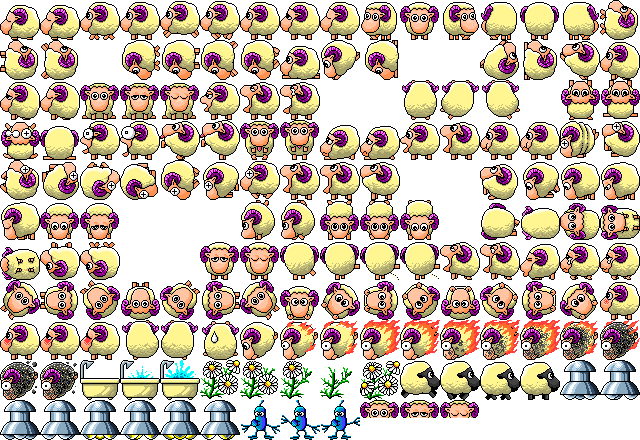
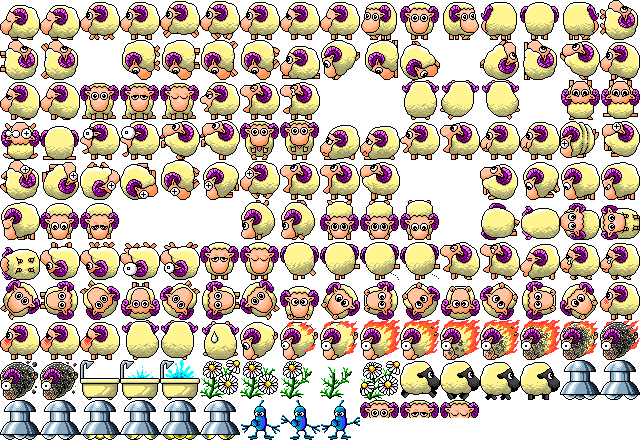
new: RunUpsideDown misc: improve ReachSide2 transition

Changed region(s): [[0.1875, 0.5318, 0.3125, 0.65], [0.625, 0.0886, 0.6875, 0.1773]]

diff --git a/skel/img/tiles.html b/skel/img/tiles.html
@@ -74,7 +74,6 @@
 	<script>
 		const unused = [
 			18,
-			26,
 			27,
 			40,
 			41,
@@ -85,8 +84,6 @@
 			84,
 			85,
 			91,
-			99,
-			100,
 			172,
 		];
 		const sprite = document.getElementById('sprite');

diff --git a/src/animation/mod.rs b/src/animation/mod.rs
@@ -15,7 +15,7 @@ use scene::SceneListKind;
 
 
 #[cfg(any(test, feature = "director"))] const MIN_ANIMATION_ID: u8 = 1;  // The lowest Animation ID.
-#[cfg(any(test, feature = "director"))] const MAX_ANIMATION_ID: u8 = 59; // The highest Animation ID.
+#[cfg(any(test, feature = "director"))] const MAX_ANIMATION_ID: u8 = 60; // The highest Animation ID.
 
 /// # Default Animations.
 const DEFAULT: &[Animation] = &[
@@ -126,6 +126,7 @@ pub(crate) enum Animation {
 	ReachSide1,
 	ReachSide2,
 	RunDown,
+	RunUpsideDown,
 	SlideDown,
 	Splat,
 	WalkUpsideDown,
@@ -243,6 +244,7 @@ impl Animation {
 			Self::Rotate => "Rotate",
 			Self::Run => "Run",
 			Self::RunDown => "Run Down",
+			Self::RunUpsideDown => "Run Upside Down",
 			Self::Scoot => "Scoot",
 			Self::Scratch => "Scratch",
 			Self::Scream => "Scream",
@@ -301,7 +303,7 @@ impl Animation {
 	/// Returns `true` if the animation needs to flip the sprite image
 	/// horizontally.
 	pub(crate) const fn flip_x(self) -> bool {
-		matches!(self, Self::BlackSheepChaseChild)
+		matches!(self, Self::BlackSheepChaseChild | Self::ReachSide2)
 	}
 
 	/// # Flip (Y).
@@ -341,7 +343,7 @@ impl Animation {
 			Self::GraspingFall | Self::Handstand | Self::Jump | Self::PlayDead |
 			Self::ReachCeiling | Self::ReachFloor | Self::ReachSide1 |
 			Self::ReachSide2 | Self::Rest | Self::Roll | Self::Rotate |
-			Self::Run | Self::RunDown | Self::Scoot |
+			Self::Run | Self::RunDown | Self::RunUpsideDown | Self::Scoot |
 			Self::Scratch | Self::Scream | Self::Sleep | Self::Slide |
 			Self::SlideDown | Self::Sneeze | Self::Spin | Self::Splat |
 			Self::Stargaze | Self::Urinate | Self::Walk | Self::WalkUpsideDown |
@@ -398,7 +400,7 @@ impl Animation {
 				Self::DangleRecover, Self::DangleRecover, Self::DangleRecover,
 				Self::GraspingFall,
 			])),
-			Self::DeepThoughts => Some(Self::ReachSide2),
+			Self::DeepThoughts | Self::RunUpsideDown => Some(Self::RunUpsideDown),
 			Self::Drag => Some(Self::Drag),
 			Self::Eat => Some(choose(&[Self::Rest, Self::Walk, Self::Walk])),
 			Self::Fall | Self::GraspingFall => Some(Self::GraspingFall),
@@ -445,9 +447,11 @@ impl Animation {
 				Self::Roll,
 			])),
 			Self::WalkUpsideDown => Some(choose(&[
-				Self::WalkUpsideDown, Self::WalkUpsideDown, Self::WalkUpsideDown, Self::WalkUpsideDown, Self::WalkUpsideDown, Self::WalkUpsideDown, Self::WalkUpsideDown, Self::WalkUpsideDown, Self::WalkUpsideDown, Self::WalkUpsideDown,
-				Self::WalkUpsideDown, Self::WalkUpsideDown, Self::WalkUpsideDown, Self::WalkUpsideDown, Self::WalkUpsideDown, Self::WalkUpsideDown, Self::WalkUpsideDown, Self::WalkUpsideDown, Self::WalkUpsideDown,
+				Self::WalkUpsideDown, Self::WalkUpsideDown, Self::WalkUpsideDown, Self::WalkUpsideDown, Self::WalkUpsideDown,
+				Self::WalkUpsideDown, Self::WalkUpsideDown, Self::WalkUpsideDown, Self::WalkUpsideDown, Self::WalkUpsideDown,
+				Self::WalkUpsideDown, Self::WalkUpsideDown, Self::WalkUpsideDown, Self::WalkUpsideDown, Self::WalkUpsideDown,
 				Self::DangleFall,
+				Self::DeepThoughts,
 			])),
 			Self::WallSlide => Some(Self::WallSlide),
 			_ => None,
@@ -463,7 +467,7 @@ impl Animation {
 			Self::BathDive => Some(Self::BathCoolDown),
 			Self::ClimbDown | Self::RunDown | Self::SlideDown => Some(Self::ReachFloor),
 			Self::ClimbUp => Some(Self::ReachCeiling),
-			Self::DangleRecover | Self::DeepThoughts |
+			Self::DangleRecover | Self::DeepThoughts | Self::RunUpsideDown |
 			Self::WalkUpsideDown => Some(Self::ReachSide2),
 			Self::GraspingFall => Some(choose(&[
 				Self::Splat, Self::Splat, Self::Splat,
@@ -474,8 +478,8 @@ impl Animation {
 			Self::Jump => Some(Self::WallSlide),
 			Self::BeginRun | Self::EndRun | Self::Run => Some(Self::Boing),
 			Self::Walk => Some(choose(&[
-				Self::Rotate, Self::Rotate, Self::Rotate, Self::Rotate, Self::Rotate,
-				Self::Scoot, Self::Scoot,
+				//Self::Rotate, Self::Rotate, Self::Rotate, Self::Rotate, Self::Rotate,
+				Self::Scoot, //Self::Scoot,
 				Self::ReachSide1,
 			])),
 			Self::WallSlide => Some(Self::Rotate),
@@ -538,6 +542,7 @@ impl Animation {
 			Self::Rotate => fixed!(ROTATE),
 			Self::Run => fixed!(RUN),
 			Self::RunDown => fixed!(RUN_DOWN),
+			Self::RunUpsideDown => fixed!(RUN_UPSIDE_DOWN),
 			Self::Scoot => fixed!(SCOOT),
 			Self::Scratch => fixed!(SCRATCH),
 			Self::Scream => fixed!(SCREAM),
@@ -664,7 +669,6 @@ mod tests {
 		// These are the frames we weren't using the last time this was run.
 		const EXPECTED: &[u8] = &[
 			18,
-			26,
 			27,
 			40,
 			41,
@@ -675,8 +679,6 @@ mod tests {
 			84,
 			85,
 			91,
-			99,
-			100,
 			172,
 		];
 

diff --git a/src/animation/scenes.rs b/src/animation/scenes.rs
@@ -254,7 +254,7 @@ pub(super) const REACH_SIDE1: &[Scene] = &[
 
 /// # For `Animation::ReachSide2`.
 pub(super) const REACH_SIDE2: &[Scene] = &[
-	Scene::new(200, &[97, 97])
+	Scene::new(200, &[26])
 		.with_flags(Scene::FLIP_X_AFTER),
 ];
 
@@ -299,8 +299,15 @@ pub(super) const RUN: &[Scene] = &[
 
 /// # For `Animation::RunDown`.
 pub(super) const RUN_DOWN: &[Scene] = &[
-	Scene::new(100, &[22, 21, 21])
+	Scene::new(60, &[22, 22, 21, 21, 21])
 		.with_move_to(Position::new(0, 180))
+		.with_repeat(5, 0),
+];
+
+/// # For `Animation::RunUpsideDown`.
+pub(super) const RUN_UPSIDE_DOWN: &[Scene] = &[
+	Scene::new(60, &[99, 99, 100, 100, 100])
+		.with_move_to(Position::new(-180, 0))
 		.with_repeat(5, 0),
 ];
 
